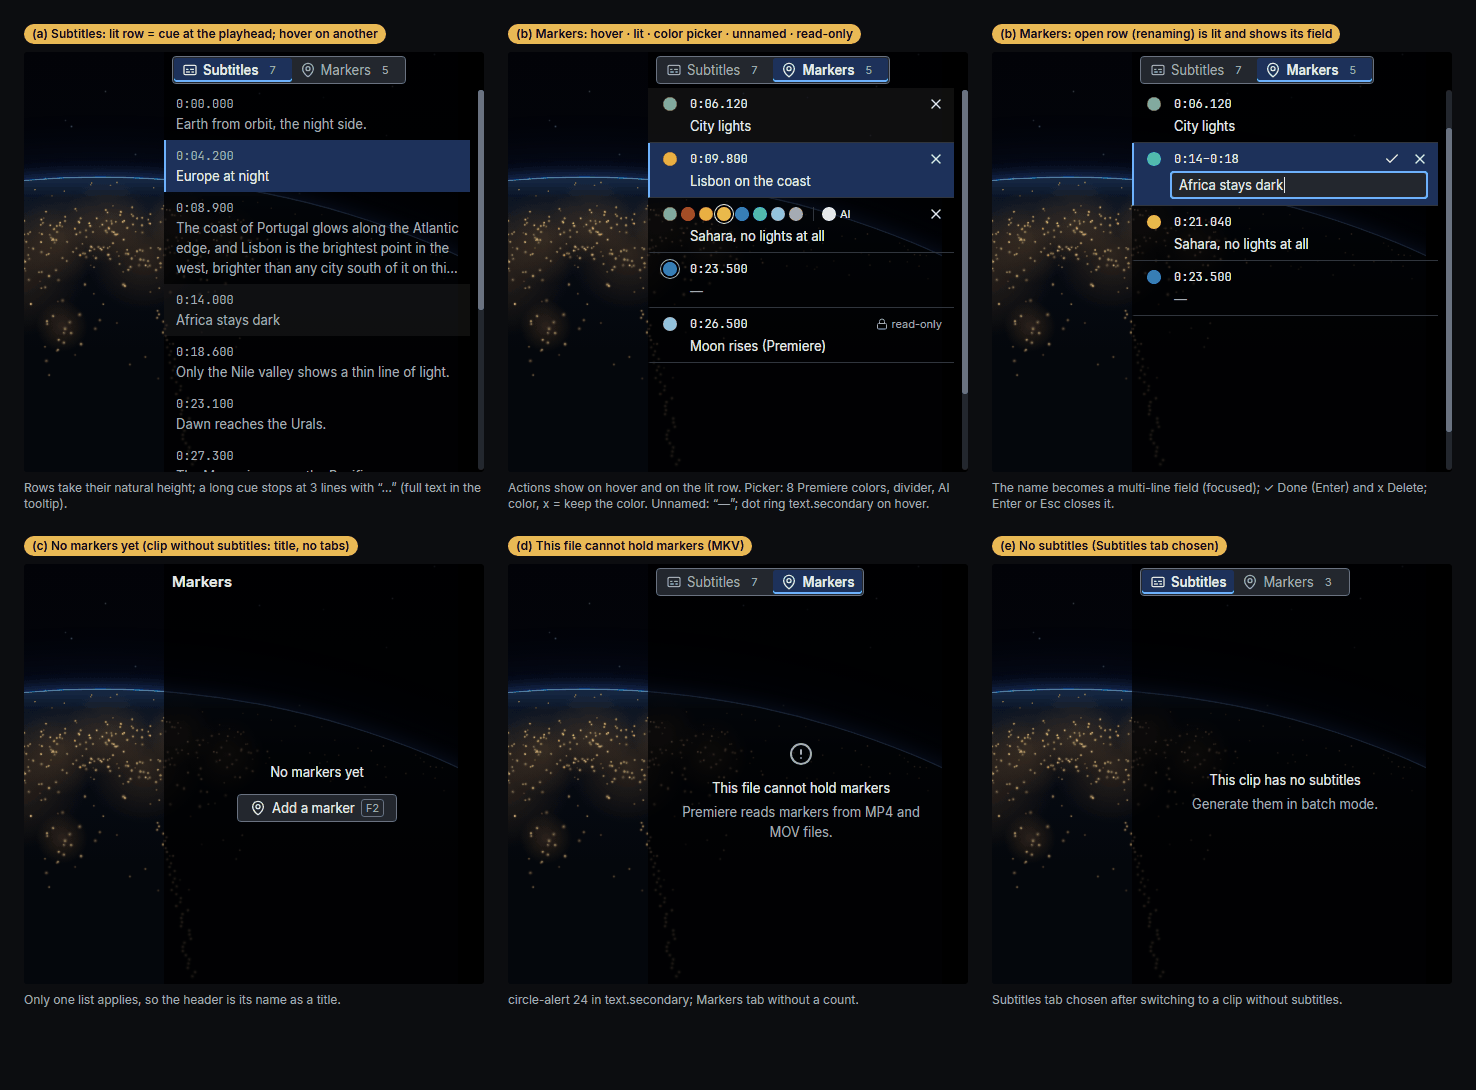
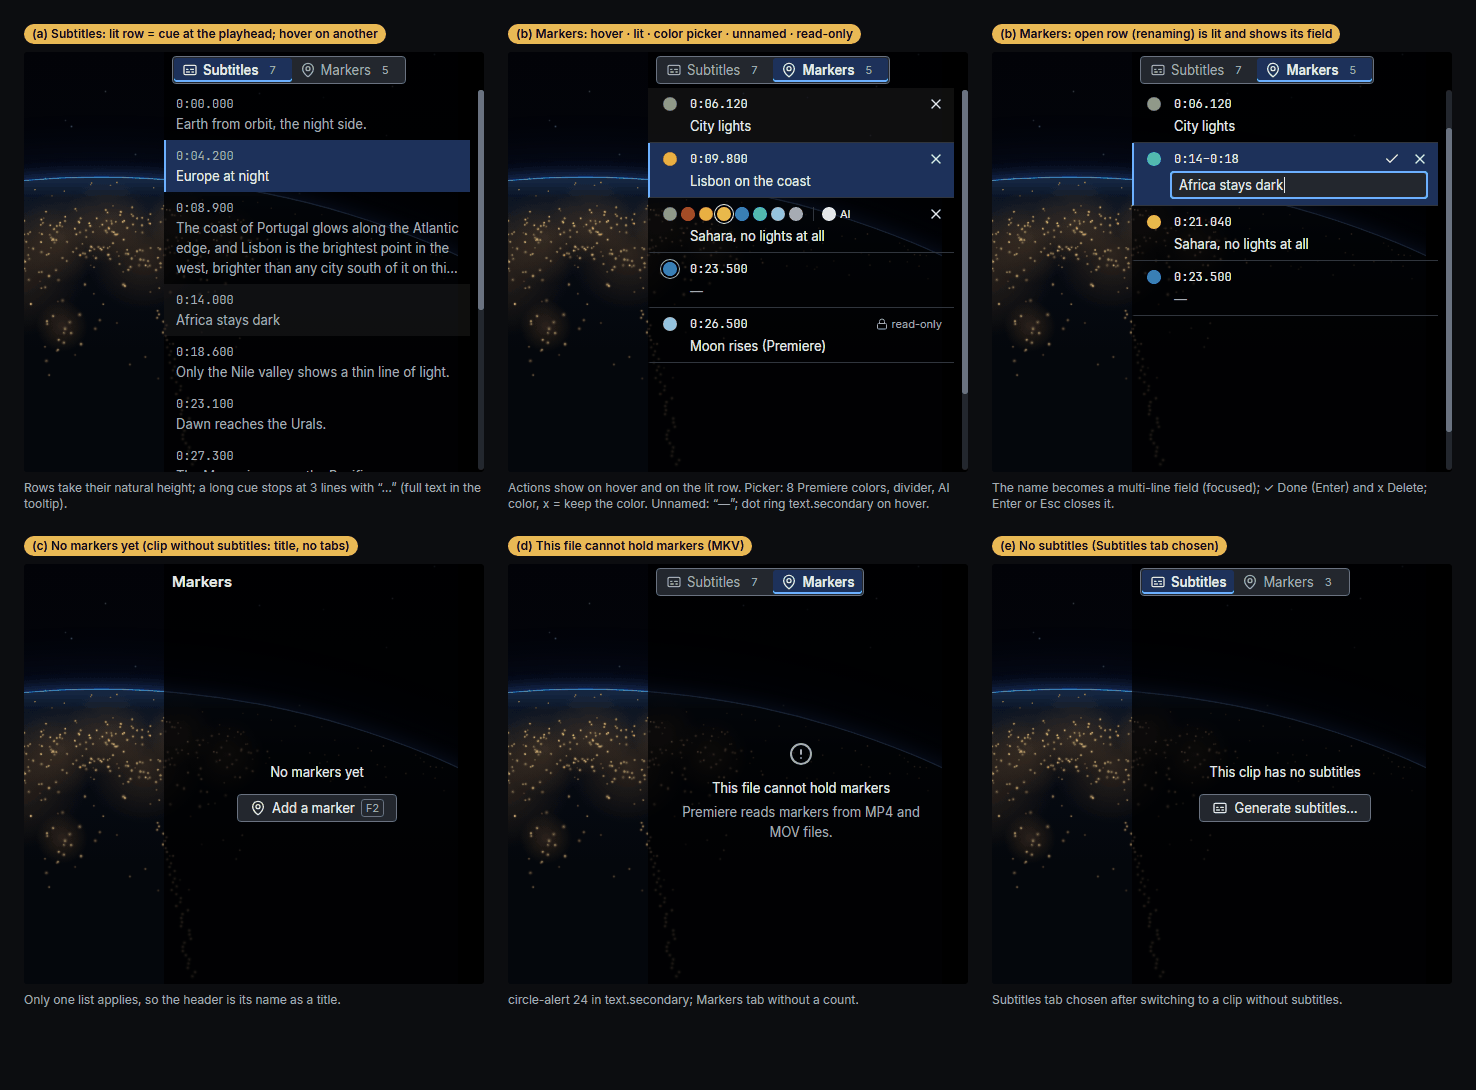
Design system: offer the action, not directions; links vs buttons
- Principle 9: where the app would tell the user to go and do something,
  it shows the button that does it, opening the place prepared.
- §8.21 defines the system: a button is the way forward (acts, or takes
  the user to the next step prepared); a link is a side trip (look, or
  adjust a detail shown next to it) and never the only way out.
- Buttons are named by what they achieve: "Set the key…", not "Open
  Settings". Ghost buttons are small commands acting in place.
- Paid badge names the service that will bill, as chosen in Settings;
  the action's name never names a company; "No key" when none is set.
- Applied: "Generate subtitles…" for a clip without subtitles, "Open the
  first clip", "Check all 24 files", "Choose the tag…", "Top up on
  Soniox", "Check the key…"; mockups updated.

Changed region(s): [[0.8103, 0.6862, 0.935, 0.7798]]

diff --git a/docs/design/design-system.md b/docs/design/design-system.md
@@ -64,6 +64,11 @@ keyboard, next to Premiere Pro. The rules below come from that.
    (BIR «Пиктограммы»; DI p. 396).
 8. **Built for 1080p at 150 %** (1280×720 logical, a 1280×680 work area under the taskbar): every
    window and default layout fits there.
+9. **Offer the action, not directions.** Wherever frename could tell the user to go somewhere and
+   do something ("Generate them in batch mode", "Set a key in Settings"), it shows the button that
+   does it instead, and the button takes them there with everything prepared: the right window,
+   page, action, files and field. What stays text is only what no click can do for them (a fact,
+   or typing into a field that is already in front of them).
 
 ## 2. Approaches considered
 
@@ -355,7 +360,7 @@ selected where it has one). iced 0.14 gives buttons, checkboxes and radios no ke
 |---|---|---|
 | **primary** | `accent` fill, white SemiBold text | The one commit action of a window or panel: *Describe 12 files*, *Save key*. At most one per window (PUI; MiM ch. 7). |
 | **secondary** | `bg.raised` fill, `border.control` edge, `text.primary` | Every other command: *Close*, *Cancel*, *Replace…*, *Check for updates*, *Move comments…*. |
-| **ghost** | no fill, `text.primary`; hover shows `state.hover` | Minor actions inside a row: *Show*, *Open the log*, *Change*. |
+| **ghost** | no fill, `text.primary`; hover shows `state.hover` | Minor commands that act right here, inside a row or a list's header: *Invert*, *Copy the list*, *Undo*. Not for going somewhere: that is a link (§8.21). |
 | **danger-ghost** | no fill, `error` text and a 1 px `error` edge | The first step of a destructive action: *Remove…*. Clearly a button, but quieter than a filled one until confirmed (PUI "friction"; RUI "Semantics are secondary"). |
 | **danger** | `danger` fill, white SemiBold | Only inside the confirmation of a destructive action: *Remove key*. |
 | **icon** | 32×32 (toolbar) or 24×24 (row), transparent | Frequent toolbar actions with a known picture. Always a tooltip. |
@@ -369,8 +374,9 @@ selected where it has one). iced 0.14 gives buttons, checkboxes and radios no ke
 - **Close and Cancel** are secondary buttons, except on a *result* screen where nothing is left to
   commit (a finished batch job, #58): there Close is the primary button, and it is still the last
   one on the right (§9.2).
-- Labels are verb + object in sentence case: *Save key*, *Describe 12 files*, never *OK*, *Yes*,
-  *Submit* (DI "Prominent Done Button"; PUI; BIR «Кнопка»). The count goes into the label when
+- Labels are verb + object in sentence case and name what the click achieves, not the place it
+  opens: *Set the key…*, not *Open Settings*; *Generate subtitles…*, not *Go to batch mode*;
+  *Save key*, *Describe 12 files*, never *OK*, *Yes*, *Submit* (DI "Prominent Done Button"; PUI; BIR «Кнопка»). The count goes into the label when
   it helps ("Run on 12 files").
 - **Ellipsis** only when the button asks for more before acting (*Replace…* shows a field,
   *Import settings from an old frename folder…* opens a picker); never on a button that acts at once
@@ -583,14 +589,31 @@ the next step ("Open a folder of clips"), one line of
 `secondary` with the other ways, and the action as a button (primary if it is *the* thing to do)
 (RUI "Don't overlook empty states"; DI "Instant Gratification"; BIR «Взгляд новичка»). Smaller
 empty areas (an empty filter result, no markers yet) get one line of `secondary` and, if there is
-one, a ghost button ("Add a marker `F2`").
+one, a secondary button ("Add a marker `F2`", "Generate subtitles…"). The line never tells the user
+where to go to do something (§1 principle 9): if a click can get there, the button is there.
 
-### 8.21 Link
+### 8.21 Link, and when a button instead
 
-A ghost button whose text is `accent.text`: *Change*, *Open Settings*, *Add credit* in a notice. It
-navigates (opens a page of frename, or a web page with a 12-px `external-link` icon after the words)
-and never runs a command (BIR: «Ссылки не предназначены для отдачи команды»). A web address that is
-only information ("console.soniox.com") is plain text, not a link.
+Words in `accent.text`, no box, underlined on hover; a 12-px `external-link` icon after the words
+when it opens a web page or another program.
+
+**The system.** One question decides: *is this the way forward, or a side trip?*
+
+| | Button (§8.1) | Link |
+|---|---|---|
+| What the click does | changes something, starts something, or takes the user to where the next step of their task is done, with it prepared | opens something to look at, or to adjust a detail shown right next to it; nothing changes and the task goes on where it was |
+| Where it sits | on its own: a button bar, a notice's action row, an empty state, a list's header | inside a line of text, right after the value or sentence it is about; never alone on a line |
+| Can it be the only way out of a dead end | yes: it must be | never: a dead end gets a button |
+| Examples | *Generate subtitles…* (no subtitles), *Set the key…* (no key), *Add credit* (no credit), *Choose the tag…* (tagging off), *Check all 24 files* (nothing checked), *Open another folder…*, *Run again on 5 files* | *Change* after "Claude Haiku 4.5", *Change* after the spacing, *Show the tag list* after "Order: as in the tag list", *Open the log*, a help page |
+
+- A button that takes the user elsewhere ends with "…" (it does not act yet: §8.1 "Ellipsis") and
+  opens the place ready: the Settings page scrolled to the row with the field focused; batch mode
+  with the action selected and the files checked. It never runs a paid or destructive action by
+  itself: the user still presses Run after seeing the plan.
+- A link never runs a command (BIR: «Ссылки не предназначены для отдачи команды»). A web address
+  that is only information ("console.soniox.com") is plain text, not a link.
+- Weight among buttons: *primary* when it is the one thing to do in that window or panel,
+  *secondary* otherwise, *ghost* for small commands in a row (§8.1).
 
 ## 9. Windows, dialogs and surfaces
 
@@ -710,11 +733,12 @@ In order of preference (AF "Do, don't ask"; BIR «Привычка»; PUI "frict
 - **Wording:** what happened · why (if known) · what to do, in the user's words, no blame, no
   "please", no "error:" prefix, no codes in the first line (PUI "Write clear error messages";
   AF ch. 21). "The Anthropic account has no credit left. Add credit, then run again." Technical
-  details go to the log, with an *Open the log* button.
+  details go to the log, with an *Open the log* link.
 - **Once:** a message appears in one place. The batch result's title and its failed row do not
   both say "no credit left" (#58's complaint).
-- **Action button** when there is a fix: *Add credit* (opens the billing page), *Open Settings*
-  (for a missing key, opening the right page).
+- **Action button** when there is a fix, named by the fix (§8.21): *Add credit* (opens the
+  billing page), *Top up on Soniox* (the Soniox console), *Set the key…* / *Check the key…* (the
+  right Settings page, scrolled to the key row, the field focused).
 
 ### 10.4 Empty states
 
@@ -917,7 +941,7 @@ touches batch mode; steps 7–9 are **behaviour** for #58.
 
 | State | Drawn | Today |
 |---|---|---|
-| No file open | `bg.panel`, centered: `clapperboard` 48 in `text.secondary`, "No clip open" (`title`), "Pick a file in the list." (`secondary`); the timeline and controls bar stay, disabled, so nothing jumps when a clip opens | 🎬 alone |
+| No file open | `bg.panel`, centered: `clapperboard` 48 in `text.secondary`, "No clip open" (`title`), the secondary button "Open the first clip `PgDn`" (or, with the list scrolled, the first listed); the timeline and controls bar stay, disabled, so nothing jumps when a clip opens | 🎬 alone |
 | Loading | picture area black; centered `loader-circle` 24 turning, the file name in `mono` under it; after 3 s also "Waiting for the file… (a cloud file may take a while)" | ⏳ alone |
 | Failed | `bg.panel`, centered: `circle-x` 48 in `error`, "This clip cannot be played" (`title`), the reason in one line (`secondary`), link *Open the log*; the controls bar stays but its buttons are disabled | red ✕ 80, no reason |
 | No picture | a file with sound only: the "Failed" look with the reason "This file has no video picture" | 📄 |
@@ -1112,7 +1136,11 @@ left to right, with the widths §13.9 folds by:
 - **File cannot hold markers:** `circle-alert` in `text.secondary` and "This file cannot hold
   markers" (`body`), "Premiere reads markers from MP4 and MOV files." (`secondary`).
 - **No subtitles** (Subtitles tab chosen, the clip has none): "This clip has no subtitles"
-  (`body`) and "Generate them in batch mode." (`secondary`).
+  (`body`) and the secondary button `captions` "Generate subtitles…". It enters batch mode with
+  this clip checked (the other checks are kept but the count says so) and Generate subtitles
+  selected, so the page shows the cost; nothing runs until Run. While a job runs it is disabled
+  with the reason "Another action is running". No key yet: the button is the same; the batch page
+  then offers *Set the key…*.
 
 #### 13.3.7 In and out points
 - Set with `[` / `]` (in rounds down to a whole second, out up); blocked in batch mode. Shown on the timeline (§13.3.4),
@@ -1399,6 +1427,15 @@ in `text.secondary`:
 - Rows as the Settings navigation (§14): 32 px, the selected one `state.selected` with the bar and
   SemiBold; hover `state.hover`. Icons `text.secondary`, the selected row's `text.primary`; badges
   right-aligned.
+- **Paid badge = who will bill for it.** The action's name says what it does and never names a
+  company ("Describe with AI", "Generate subtitles"). The badge names the service that will be
+  used, as chosen in Settings: "Anthropic" today; "OpenAI" when that is chosen once #17 or a later
+  issue adds it. The choice is a setting, not an option on the page (settings choose, actions
+  use). The page's first option row repeats it with the model: "Service: Anthropic · Claude Haiku
+  4.5 *Change*". With no service set up yet, the badge is `badge.warning` "No key", and the page
+  shows the notice with *Set the key…*. The badge never lists several services: the one that will
+  bill is the only fact the list needs. When the row is too narrow for both, the name is cut with
+  "…" before the badge goes, and the badge goes before the icon (§13.9).
 - **Why icons for all:** an icon is for recognition (BIR «Пиктограммы»): after a week the editor
   finds "Describe with AI" by its sparkles without reading. One action with an icon and eight
   without (the mockup of §2) was inconsistent; the rule is all or none, and the list is long enough
@@ -1422,7 +1459,7 @@ Every page has the same parts, in this order:
    `body.strong`.
 5. **A notice** when something stops it from running, with the button that fixes it.
 6. **Button bar:** on the left the reason Run is off, if it is (unless a notice above already says
-   it); on the right the **primary** Run button with a verb and the count (§8.1); with nothing
+   it), with the button that removes the reason when there is one (§8.21); on the right the **primary** Run button with a verb and the count (§8.1); with nothing
    checked the count is left out ("Move comments"). No Cancel: leaving is the `x` or Esc. The count on
    Run is the files that will be worked on, which may be fewer than the checked ones (the plan says
    why: "Skipped: 3 already described").
@@ -1431,15 +1468,15 @@ Every page has the same parts, in this order:
 
 | Action | Changes | Options | Run label | Run is off when (the reason shown) |
 |---|---|---|---|---|
-| Move comments | writes into the videos / text files | radio: "From text files into the videos" (description "XMP, the Description column in Premiere Pro") · "From the videos into text files" (`clip.comment.txt`) | Move 12 comments | nothing checked: "Check the files in the list"; a job runs: "Another action is running" |
+| Move comments | writes into the videos / text files | radio: "From text files into the videos" (description "XMP, the Description column in Premiere Pro") · "From the videos into text files" (`clip.comment.txt`) | Move 12 comments | nothing checked: "No files checked" and the secondary button *Check all 24 files* (the listed ones) next to it; a job runs: "Another action is running" |
 | Move in/out points | renames files; writes into the videos | radio: "From file names into the videos" · "From the videos into file names" | Move in/out of 12 files | nothing checked |
 | Markers ⇄ comment | writes into the videos; may rename | radio: "Comment lines into markers" (example `0:41–0:47 — Lion`) · "Markers into the comment (a copy)"; ⓘ with the line format | Convert 12 files | nothing checked |
-| Tag commented videos | renames files; also removes the tag from files without a comment | row "Tag" with the tag name and a link *Change in Settings*; when the tag is off, a warning notice "Tagging commented videos is off" with *Open Settings* | Tag 12 files | the tag is off (the notice says why; today a red "Tag: off") |
-| Fix tags by priority | renames files | none; a line "Order: as in the tag list" with a link that closes batch mode | Reorder tags in 12 names | nothing checked |
-| Apply tag spacing | renames files | row "Spacing" with the current choice and *Change in Settings* | Rename 12 files | nothing checked |
+| Tag commented videos | renames files; also removes the tag from files without a comment | row "Tag" with the tag name and the link *Change*; when the tag is off, a warning notice "Tagging commented videos is off" with the button *Choose the tag…* (Settings → Saving, at the tag row) | Tag 12 files | the tag is off (the notice says why; today a red "Tag: off") |
+| Fix tags by priority | renames files | none; a line "Order: as in the tag list" with the link *Show the tag list* (leaves batch mode) | Reorder tags in 12 names | nothing checked |
+| Apply tag spacing | renames files | row "Spacing" with the current choice and the link *Change* | Rename 12 files | nothing checked |
 | Reset cache and reload | changes only frename's records | none | Reload 12 files | nothing checked |
-| Describe with AI | writes into comments (and markers) | rows: Model (the model and *Change*), Language (*Change*), checkbox "Describe again the videos that have a description"; plan rows and "Without subtitles: 4" (they are described from the picture only); skipped line in `secondary` ("Skipped: 3 already described, 1 over 30 min") | Describe 12 videos · about $0.35 | estimating: a spinner line "Reading clip lengths… 40 of 120" over the plan rows drawn as empty skeletons, Run "Describe videos", reason "Waiting for the estimate"; no key (error notice + *Open Settings*); nothing to send |
-| Generate subtitles | writes `.srt` files | rows: Languages (from Settings, as a line, *Change*), Cue length, checkbox "Replace existing subtitles"; plan rows: videos, length, cost with its source ("from your account" / "typical price"; "cost unknown" when neither is known), time; `secondary` lines: what is skipped and why, "The audio is sent to Soniox", "Uploads are deleted from Soniox afterwards (the log lists any that could not be)", and that the clips get the "subtitled" tag when Settings says so | Transcribe 12 videos · about $0.07 (or "Build 3 subtitles, free") | key missing or rejected (notice + *Open Settings*); nothing to transcribe |
+| Describe with AI | writes into comments (and markers) | rows: Model (the model and *Change*), Language (*Change*), checkbox "Describe again the videos that have a description"; plan rows and "Without subtitles: 4" (they are described from the picture only); skipped line in `secondary` ("Skipped: 3 already described, 1 over 30 min") | Describe 12 videos · about $0.35 | estimating: a spinner line "Reading clip lengths… 40 of 120" over the plan rows drawn as empty skeletons, Run "Describe videos", reason "Waiting for the estimate"; no key (error notice "No Anthropic API key yet" + *Set the key…*); key rejected (+ *Check the key…*); nothing to send |
+| Generate subtitles | writes `.srt` files | rows: Languages (from Settings, as a line, *Change*), Cue length, checkbox "Replace existing subtitles"; plan rows: videos, length, cost with its source ("from your account" / "typical price"; "cost unknown" when neither is known), time; `secondary` lines: what is skipped and why, "The audio is sent to Soniox", "Uploads are deleted from Soniox afterwards (the log lists any that could not be)", and that the clips get the "subtitled" tag when Settings says so | Transcribe 12 videos · about $0.07 (or "Build 3 subtitles, free") | key missing or rejected (notice + *Set the key…* / *Check the key…*); nothing to transcribe |
 
 Today seven actions share one generic "Run on N files". What explains a disabled Run today: the red
 key footers of AI and subtitles, "Tag: off", and the labels "No videos to describe." / "Nothing to
@@ -1489,7 +1526,8 @@ The job's page stays until Close:
    - stopped by the user: `circle-minus` info notice "Stopped after 7 of 12 files" (the files not
      reached are not listed: they did not fail; "Run again" covers them);
    - stopped by an error: error notice "Stopped: the Anthropic account has no credit left" with the
-     fix (*Add credit* for billing, *Open Settings* for a key) — the reason is not repeated below;
+     fix (*Add credit* for Anthropic billing, *Top up on Soniox* for an empty Soniox balance or
+     budget, *Check the key…* for a rejected key) — the reason is not repeated below;
    - finished with some failures: warning notice "Done with problems: 3 of 12 files not done".
 2. **Figures:** three figures in a row — changed, unchanged, not done — and a fourth, "not reached"
    (`text.secondary`), when the job stopped early; each a `heading` number over
@@ -1498,8 +1536,8 @@ The job's page stays until Close:
    timeout may have been billed).
 4. **Files not done:** a table (§10.5) with the header "File" / "Why", the file name in `mono`, the
    reason in `body`, 8 rows then it scrolls; when every file has the stop reason, only the names
-   (the reason is in the notice). Above it at the right: ghost *Copy the list* (copies "name — reason"
-   lines) and *Open the log*.
+   (the reason is in the notice). Above it at the right: ghost button *Copy the list* (copies
+   "name — reason" lines) and the link *Open the log*.
 5. **Button bar:** secondary "Run again on 5 files" (the not done and not reached; it checks exactly
    those files and starts at once), then **primary Close** `Esc` at the right (§8.1: the result screen's primary is Close). A key cap on a filled
    button is drawn with a white 60 % edge and white text.
@@ -1527,18 +1565,18 @@ Every place that can be empty, with what it shows (words in `title` + `secondary
 | File list | loading another folder | the old rows dimmed with a spinner line on top "Opening …" |
 | File list | the new folder cannot be read | the old folder stays; an error notice at the top of the list "Cannot open “Lisbon”: access denied" with *Try again* (**behaviour**, #59: today nothing is shown) |
 | File list | search or filters hide every file | `search-x` "No files match" · the active filters as removable badges · *Show all* |
-| Video pane | no file open | `clapperboard` "No clip open" · "Pick a file in the list." |
+| Video pane | no file open | `clapperboard` "No clip open" · *Open the first clip `PgDn`* |
 | Video pane | cannot play | §13.3.1 |
-| Subtitle list | no subtitles | "This clip has no subtitles" · "Generate them in batch mode." |
+| Subtitle list | no subtitles | "This clip has no subtitles" · *Generate subtitles…* |
 | Marker list | no markers | "No markers yet" · *Add a marker F2* |
 | Marker list | format without markers | "This file cannot hold markers" |
 | Tag grid | no file open | `tag` "Open a clip to tag it" |
-| Tag grid | folder has no tags | "No tags yet" · "Type a name and press Enter to create the first one." |
+| Tag grid | folder has no tags | "No tags yet" · "Type a name and press Enter to create the first one." (the one hint that stays text: typing goes into the tag search right above it, which takes focus) |
 | Tag grid | no match | the "Create “…”" cell |
 | Starred strip | nothing starred | takes no space |
 | File name card | no tags on the clip | "No tags on this clip" |
 | Comment | empty | the placeholder "Comment" |
-| Batch panel | nothing checked | the action page as usual, Run off with "Check the files in the list" |
+| Batch panel | nothing checked | the action page as usual, Run off with "No files checked" and *Check all 24 files* |
 | Batch result | nothing failed | no "Files not done" block |
 
 ### 13.8 Colors of the content
@@ -1727,7 +1765,7 @@ these rules.
 - **Opened on a page:** ⚙ opens the last page shown in this session (*Interface* the first time), or
   *Updates* when an update is ready (the dot on ⚙ leads to it, and the *Updates* item shows the
   same dot). *Describe with AI* and *Generate subtitles* in batch mode open their pages (they used to
-  open "scrolled to the end"); the *Settings…* links of *Tag commented* and *Apply tag spacing* open
+  open "scrolled to the end"); the *Change* links and *Choose the tag…* buttons of *Tag commented* and *Apply tag spacing* open
   *Saving*.
 
 ### 14.2 Pages
